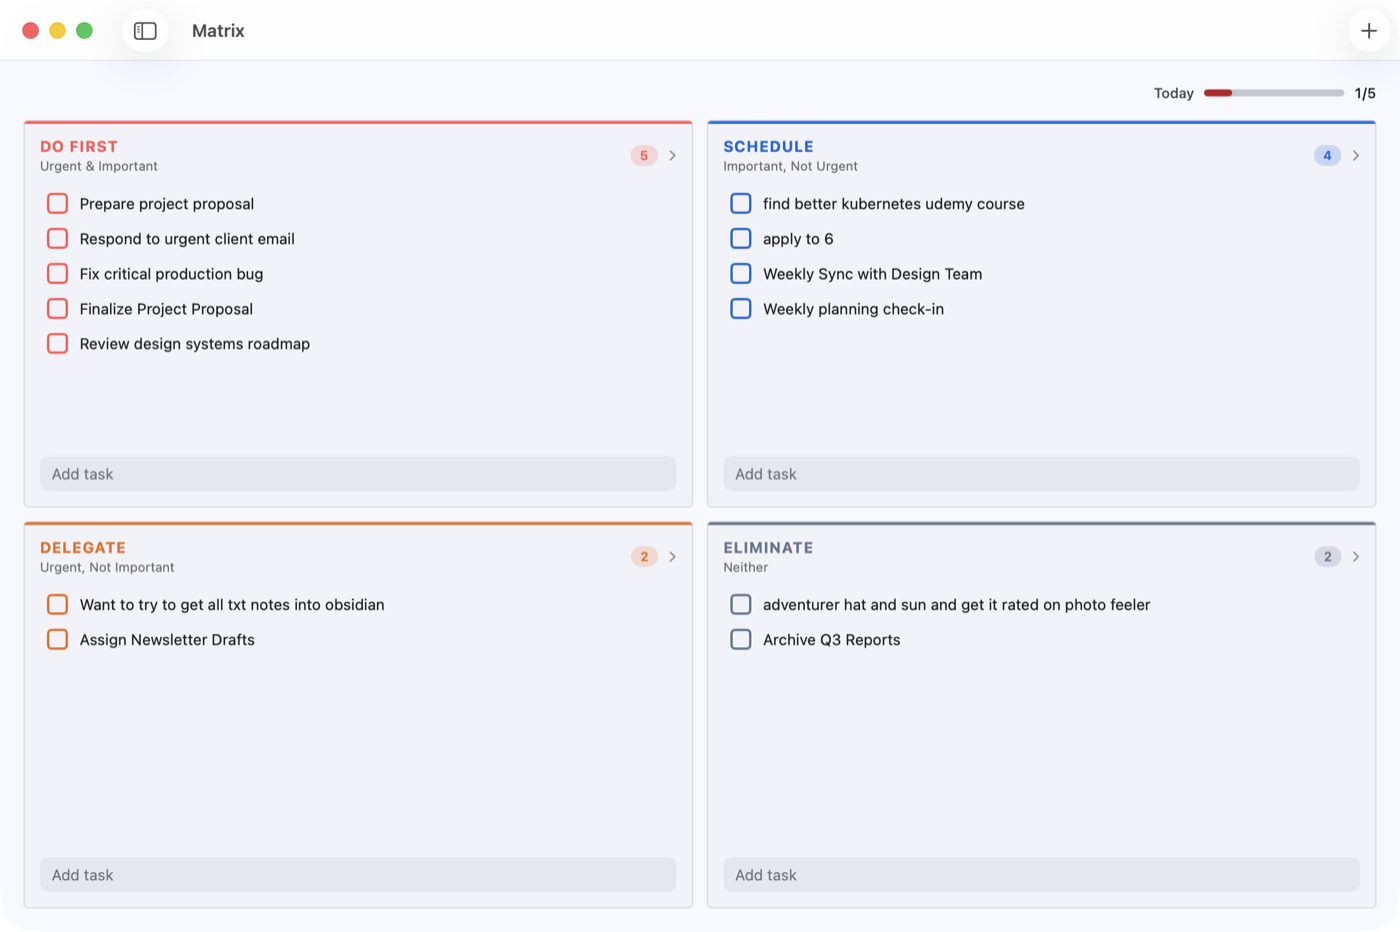
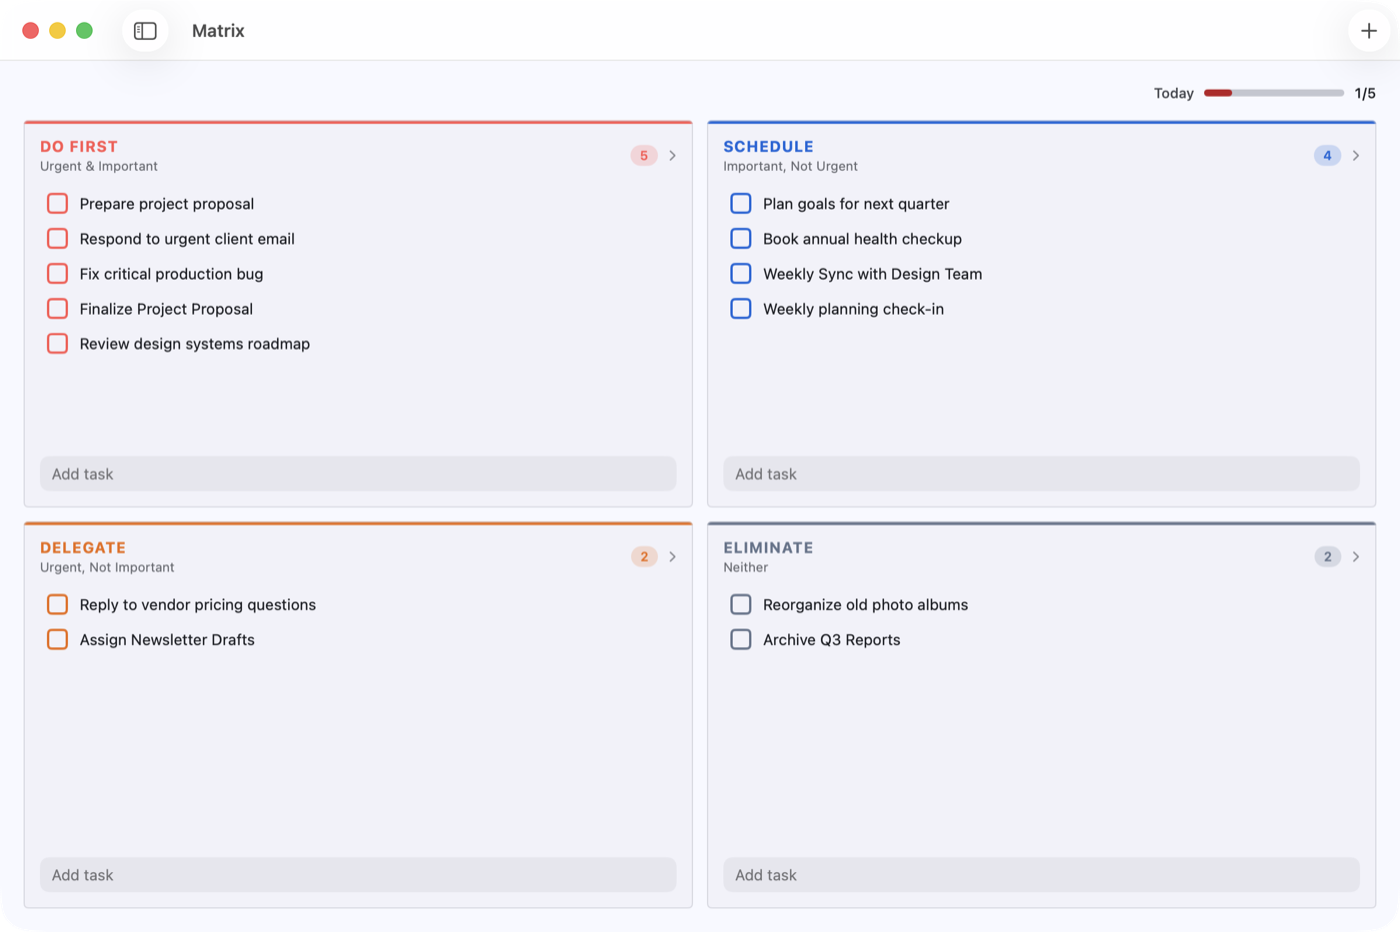
Screenshots in dark and light mode; cleaner demo tasks
Claude-Session: https://claude.ai/code/session_01PnMkf4ZBmPxF4XYdkjmjTr

Changed region(s): [[0.5529, 0.2178, 0.7371, 0.28], [0.5529, 0.6223, 0.8293, 0.6534], [0.0614, 0.6223, 0.2764, 0.6534]]

diff --git a/user-guide.html b/user-guide.html
@@ -30,7 +30,7 @@
   </nav>
 
   <h2 id="quadrants">Choosing a quadrant</h2>
-  <figure class="phone"><img src="images/iphone-matrix.jpg" alt="The Matrix screen with tasks in each quadrant" width="600" height="1304" loading="lazy"><figcaption>The Matrix</figcaption></figure>
+  <figure class="phone pair"><div><img src="images/iphone-matrix-dark.jpg" alt="The Matrix screen with tasks in each quadrant (dark mode)" width="600" height="1304" loading="lazy"><img src="images/iphone-matrix-light.jpg" alt="The Matrix screen with tasks in each quadrant (light mode)" width="600" height="1304" loading="lazy"></div><figcaption>The Matrix, dark and light</figcaption></figure>
   <p>Matrix Focus is built on the Eisenhower Matrix. For each task, ask two questions:
     <strong>is it important?</strong> and <strong>is it urgent?</strong></p>
   <div class="grid">
@@ -51,7 +51,7 @@
     Delegate or Eliminate.</p>
 
   <h2 id="tasks">Adding and editing tasks</h2>
-  <figure class="phone"><img src="images/iphone-editor.jpg" alt="Task editor with the Quadrant chips and Schedule on Calendar switch" width="600" height="1304" loading="lazy"><figcaption>The task editor</figcaption></figure>
+  <figure class="phone pair"><div><img src="images/iphone-editor-dark.jpg" alt="Task editor with the Quadrant chips and Schedule on Calendar switch (dark mode)" width="600" height="1304" loading="lazy"><img src="images/iphone-editor-light.jpg" alt="Task editor with the Quadrant chips and Schedule on Calendar switch (light mode)" width="600" height="1304" loading="lazy"></div><figcaption>The task editor, dark and light</figcaption></figure>
   <ul>
     <li><strong>Add a task:</strong> tap the <strong>+</strong> button on the Matrix, or the add button on a
       quadrant to start the task in that quadrant.</li>
@@ -65,7 +65,7 @@
     <strong>Completed</strong> tabs.</p>
 
   <h2 id="complete">Completing and deleting</h2>
-  <figure class="phone"><img src="images/iphone-quadrant.jpg" alt="A quadrant opened full-screen with Active and Completed tabs" width="600" height="1304" loading="lazy"><figcaption>A quadrant, full-screen</figcaption></figure>
+  <figure class="phone pair"><div><img src="images/iphone-quadrant-dark.jpg" alt="A quadrant opened full-screen with Active and Completed tabs (dark mode)" width="600" height="1304" loading="lazy"><img src="images/iphone-quadrant-light.jpg" alt="A quadrant opened full-screen with Active and Completed tabs (light mode)" width="600" height="1304" loading="lazy"></div><figcaption>A quadrant, full-screen, dark and light</figcaption></figure>
   <ul>
     <li><strong>Complete:</strong> tap the checkbox next to a task. On iPhone you can also swipe right.</li>
     <li><strong>Delete:</strong> open the task and choose <strong>Delete</strong>. On iPhone you can also
@@ -83,13 +83,13 @@
   <p>Dragging only reorders tasks within one quadrant. To move a task to a different quadrant, edit it.</p>
 
   <h2 id="calendar">Calendar</h2>
-  <figure class="phone"><img src="images/iphone-calendar.jpg" alt="Calendar month view and the selected day's timeline" width="600" height="1304" loading="lazy"><figcaption>Calendar</figcaption></figure>
+  <figure class="phone pair"><div><img src="images/iphone-calendar-dark.jpg" alt="Calendar month view and the selected day's timeline (dark mode)" width="600" height="1304" loading="lazy"><img src="images/iphone-calendar-light.jpg" alt="Calendar month view and the selected day's timeline (light mode)" width="600" height="1304" loading="lazy"></div><figcaption>Calendar, dark and light</figcaption></figure>
   <p>Turn on <strong>Schedule on calendar</strong> in the task editor to give a task a date, and
     optionally a start and end time. The Calendar tab shows the month; pick a day to see what's scheduled.
     Scheduled tasks stay in their quadrant on the Matrix too.</p>
 
   <h2 id="archive">Archive</h2>
-  <figure class="phone"><img src="images/iphone-archive.jpg" alt="Archive of completed tasks with a search field and restore buttons" width="600" height="1304" loading="lazy"><figcaption>Archive</figcaption></figure>
+  <figure class="phone pair"><div><img src="images/iphone-archive-dark.jpg" alt="Archive of completed tasks with a search field and restore buttons (dark mode)" width="600" height="1304" loading="lazy"><img src="images/iphone-archive-light.jpg" alt="Archive of completed tasks with a search field and restore buttons (light mode)" width="600" height="1304" loading="lazy"></div><figcaption>Archive, dark and light</figcaption></figure>
   <p>Completed tasks show up in the Archive tab. You can search them, <strong>restore</strong> a task to
     bring it back as active, or <strong>Clear All</strong> to permanently delete everything in the archive.</p>
 
@@ -104,7 +104,7 @@
     the label; each quadrant still means the same thing.</p>
 
   <h2 id="sync">Sign in and sync</h2>
-  <figure class="phone"><img src="images/iphone-settings.jpg" alt="Settings with the Account section offering Apple, Google and Email sign-in" width="600" height="1304" loading="lazy"><figcaption>Settings → Account</figcaption></figure>
+  <figure class="phone pair"><div><img src="images/iphone-settings-dark.jpg" alt="Settings with the Account section offering Apple, Google and Email sign-in (dark mode)" width="600" height="1304" loading="lazy"><img src="images/iphone-settings-light.jpg" alt="Settings with the Account section offering Apple, Google and Email sign-in (light mode)" width="600" height="1304" loading="lazy"></div><figcaption>Settings → Account, dark and light</figcaption></figure>
   <p>You don't need an account. Without one, Matrix Focus works fully offline and your tasks stay on your device.</p>
   <p>To keep tasks in sync between Android, iPhone and Mac, open <strong>Settings → Account</strong> and sign in
     with <strong>Apple</strong>, <strong>Google</strong> or <strong>Email</strong>. Use the same account on every device.</p>

diff --git a/index.html b/index.html
@@ -23,10 +23,17 @@
     <div class="eliminate"><b>Eliminate</b><span>Neither</span></div>
   </div>
 
+  <p class="shots-label">Dark mode</p>
   <div class="shots">
-    <figure><img src="images/iphone-matrix.jpg" alt="The Matrix: four quadrants of tasks with daily goal progress" width="600" height="1304" loading="lazy"><figcaption>The Matrix</figcaption></figure>
-    <figure><img src="images/iphone-calendar.jpg" alt="Calendar month view with the day's scheduled tasks on a timeline" width="600" height="1304" loading="lazy"><figcaption>Calendar</figcaption></figure>
-    <figure><img src="images/iphone-archive.jpg" alt="Archive of completed tasks with search and restore" width="600" height="1304" loading="lazy"><figcaption>Archive</figcaption></figure>
+    <figure><img src="images/iphone-matrix-dark.jpg" alt="The Matrix: four quadrants of tasks with daily goal progress (dark mode)" width="600" height="1304" loading="lazy"><figcaption>The Matrix</figcaption></figure>
+    <figure><img src="images/iphone-calendar-dark.jpg" alt="Calendar month view with the day's scheduled tasks on a timeline (dark mode)" width="600" height="1304" loading="lazy"><figcaption>Calendar</figcaption></figure>
+    <figure><img src="images/iphone-archive-dark.jpg" alt="Archive of completed tasks with search and restore (dark mode)" width="600" height="1304" loading="lazy"><figcaption>Archive</figcaption></figure>
+  </div>
+  <p class="shots-label">Light mode</p>
+  <div class="shots">
+    <figure><img src="images/iphone-matrix-light.jpg" alt="The Matrix: four quadrants of tasks with daily goal progress (light mode)" width="600" height="1304" loading="lazy"><figcaption>The Matrix</figcaption></figure>
+    <figure><img src="images/iphone-calendar-light.jpg" alt="Calendar month view with the day's scheduled tasks on a timeline (light mode)" width="600" height="1304" loading="lazy"><figcaption>Calendar</figcaption></figure>
+    <figure><img src="images/iphone-archive-light.jpg" alt="Archive of completed tasks with search and restore (light mode)" width="600" height="1304" loading="lazy"><figcaption>Archive</figcaption></figure>
   </div>
 
   <figure class="wide"><img src="images/mac-matrix.png" alt="Matrix Focus on Mac, showing all four quadrants side by side" width="1400" height="932" loading="lazy"><figcaption>On Mac, all four quadrants side by side</figcaption></figure>

diff --git a/style.css b/style.css
@@ -58,3 +58,7 @@ h2 { clear: both; }
   .shots { grid-template-columns: repeat(3, 1fr); gap: 8px; }
   .phone { float: none; width: 220px; margin: 16px auto; }
 }
+.shots-label { margin: 24px 0 -12px; font-size: 12px; letter-spacing: .06em; text-transform: uppercase; }
+.phone.pair { width: 300px; }
+.pair > div { display: grid; grid-template-columns: 1fr 1fr; gap: 8px; }
+@media (max-width: 560px) { .phone.pair { width: 100%; max-width: 340px; } }
